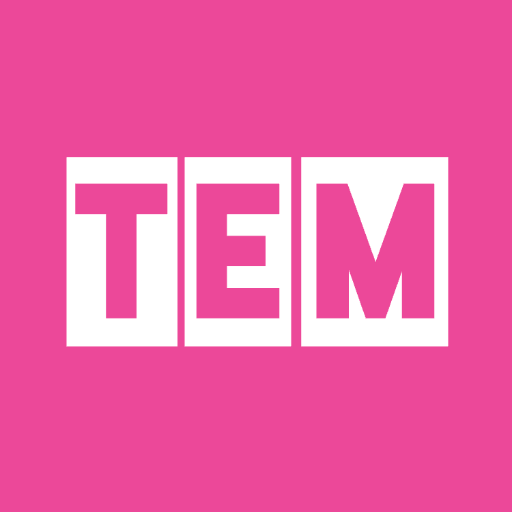
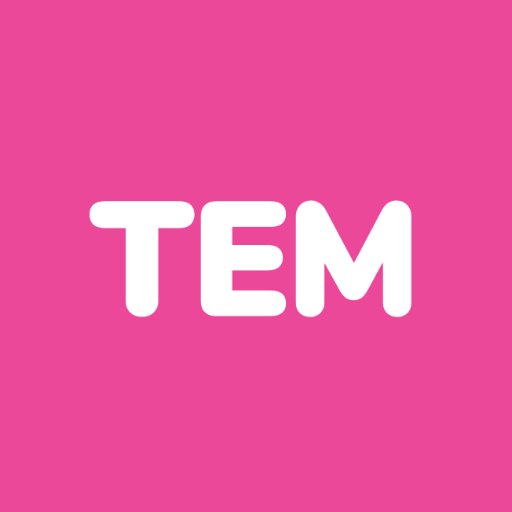
update pwa assests

Changed region(s): [[0.125, 0.2812, 0.875, 0.6875]]

diff --git a/app/layout.tsx b/app/layout.tsx
@@ -1,6 +1,8 @@
 import { type Metadata, type Viewport } from 'next';
+import Head from 'next/head';
 import { Nunito } from 'next/font/google';
 import { Toaster } from 'react-hot-toast';
+
 import Header from '@/components/Header';
 import { SendPixProvider } from '@/context/SendPixContext';
 
@@ -58,6 +60,178 @@ export default function RootLayout({
 }>) {
   return (
     <html lang="en" className="dark scrollbar-hide">
+      <Head>
+        <link
+          rel="apple-touch-startup-image"
+          media="screen and (device-width: 430px) and (device-height: 932px) and (-webkit-device-pixel-ratio: 3) and (orientation: landscape)"
+          href="splash_screens/iPhone_15_Pro_Max__iPhone_15_Plus__iPhone_14_Pro_Max_landscape.png"
+        />
+        <link
+          rel="apple-touch-startup-image"
+          media="screen and (device-width: 393px) and (device-height: 852px) and (-webkit-device-pixel-ratio: 3) and (orientation: landscape)"
+          href="splash_screens/iPhone_15_Pro__iPhone_15__iPhone_14_Pro_landscape.png"
+        />
+        <link
+          rel="apple-touch-startup-image"
+          media="screen and (device-width: 428px) and (device-height: 926px) and (-webkit-device-pixel-ratio: 3) and (orientation: landscape)"
+          href="splash_screens/iPhone_14_Plus__iPhone_13_Pro_Max__iPhone_12_Pro_Max_landscape.png"
+        />
+        <link
+          rel="apple-touch-startup-image"
+          media="screen and (device-width: 390px) and (device-height: 844px) and (-webkit-device-pixel-ratio: 3) and (orientation: landscape)"
+          href="splash_screens/iPhone_14__iPhone_13_Pro__iPhone_13__iPhone_12_Pro__iPhone_12_landscape.png"
+        />
+        <link
+          rel="apple-touch-startup-image"
+          media="screen and (device-width: 375px) and (device-height: 812px) and (-webkit-device-pixel-ratio: 3) and (orientation: landscape)"
+          href="splash_screens/iPhone_13_mini__iPhone_12_mini__iPhone_11_Pro__iPhone_XS__iPhone_X_landscape.png"
+        />
+        <link
+          rel="apple-touch-startup-image"
+          media="screen and (device-width: 414px) and (device-height: 896px) and (-webkit-device-pixel-ratio: 3) and (orientation: landscape)"
+          href="splash_screens/iPhone_11_Pro_Max__iPhone_XS_Max_landscape.png"
+        />
+        <link
+          rel="apple-touch-startup-image"
+          media="screen and (device-width: 414px) and (device-height: 896px) and (-webkit-device-pixel-ratio: 2) and (orientation: landscape)"
+          href="splash_screens/iPhone_11__iPhone_XR_landscape.png"
+        />
+        <link
+          rel="apple-touch-startup-image"
+          media="screen and (device-width: 414px) and (device-height: 736px) and (-webkit-device-pixel-ratio: 3) and (orientation: landscape)"
+          href="splash_screens/iPhone_8_Plus__iPhone_7_Plus__iPhone_6s_Plus__iPhone_6_Plus_landscape.png"
+        />
+        <link
+          rel="apple-touch-startup-image"
+          media="screen and (device-width: 375px) and (device-height: 667px) and (-webkit-device-pixel-ratio: 2) and (orientation: landscape)"
+          href="splash_screens/iPhone_8__iPhone_7__iPhone_6s__iPhone_6__4.7__iPhone_SE_landscape.png"
+        />
+        <link
+          rel="apple-touch-startup-image"
+          media="screen and (device-width: 320px) and (device-height: 568px) and (-webkit-device-pixel-ratio: 2) and (orientation: landscape)"
+          href="splash_screens/4__iPhone_SE__iPod_touch_5th_generation_and_later_landscape.png"
+        />
+        <link
+          rel="apple-touch-startup-image"
+          media="screen and (device-width: 1024px) and (device-height: 1366px) and (-webkit-device-pixel-ratio: 2) and (orientation: landscape)"
+          href="splash_screens/12.9__iPad_Pro_landscape.png"
+        />
+        <link
+          rel="apple-touch-startup-image"
+          media="screen and (device-width: 834px) and (device-height: 1194px) and (-webkit-device-pixel-ratio: 2) and (orientation: landscape)"
+          href="splash_screens/11__iPad_Pro__10.5__iPad_Pro_landscape.png"
+        />
+        <link
+          rel="apple-touch-startup-image"
+          media="screen and (device-width: 820px) and (device-height: 1180px) and (-webkit-device-pixel-ratio: 2) and (orientation: landscape)"
+          href="splash_screens/10.9__iPad_Air_landscape.png"
+        />
+        <link
+          rel="apple-touch-startup-image"
+          media="screen and (device-width: 834px) and (device-height: 1112px) and (-webkit-device-pixel-ratio: 2) and (orientation: landscape)"
+          href="splash_screens/10.5__iPad_Air_landscape.png"
+        />
+        <link
+          rel="apple-touch-startup-image"
+          media="screen and (device-width: 810px) and (device-height: 1080px) and (-webkit-device-pixel-ratio: 2) and (orientation: landscape)"
+          href="splash_screens/10.2__iPad_landscape.png"
+        />
+        <link
+          rel="apple-touch-startup-image"
+          media="screen and (device-width: 768px) and (device-height: 1024px) and (-webkit-device-pixel-ratio: 2) and (orientation: landscape)"
+          href="splash_screens/9.7__iPad_Pro__7.9__iPad_mini__9.7__iPad_Air__9.7__iPad_landscape.png"
+        />
+        <link
+          rel="apple-touch-startup-image"
+          media="screen and (device-width: 744px) and (device-height: 1133px) and (-webkit-device-pixel-ratio: 2) and (orientation: landscape)"
+          href="splash_screens/8.3__iPad_Mini_landscape.png"
+        />
+        <link
+          rel="apple-touch-startup-image"
+          media="screen and (device-width: 430px) and (device-height: 932px) and (-webkit-device-pixel-ratio: 3) and (orientation: portrait)"
+          href="splash_screens/iPhone_15_Pro_Max__iPhone_15_Plus__iPhone_14_Pro_Max_portrait.png"
+        />
+        <link
+          rel="apple-touch-startup-image"
+          media="screen and (device-width: 393px) and (device-height: 852px) and (-webkit-device-pixel-ratio: 3) and (orientation: portrait)"
+          href="splash_screens/iPhone_15_Pro__iPhone_15__iPhone_14_Pro_portrait.png"
+        />
+        <link
+          rel="apple-touch-startup-image"
+          media="screen and (device-width: 428px) and (device-height: 926px) and (-webkit-device-pixel-ratio: 3) and (orientation: portrait)"
+          href="splash_screens/iPhone_14_Plus__iPhone_13_Pro_Max__iPhone_12_Pro_Max_portrait.png"
+        />
+        <link
+          rel="apple-touch-startup-image"
+          media="screen and (device-width: 390px) and (device-height: 844px) and (-webkit-device-pixel-ratio: 3) and (orientation: portrait)"
+          href="splash_screens/iPhone_14__iPhone_13_Pro__iPhone_13__iPhone_12_Pro__iPhone_12_portrait.png"
+        />
+        <link
+          rel="apple-touch-startup-image"
+          media="screen and (device-width: 375px) and (device-height: 812px) and (-webkit-device-pixel-ratio: 3) and (orientation: portrait)"
+          href="splash_screens/iPhone_13_mini__iPhone_12_mini__iPhone_11_Pro__iPhone_XS__iPhone_X_portrait.png"
+        />
+        <link
+          rel="apple-touch-startup-image"
+          media="screen and (device-width: 414px) and (device-height: 896px) and (-webkit-device-pixel-ratio: 3) and (orientation: portrait)"
+          href="splash_screens/iPhone_11_Pro_Max__iPhone_XS_Max_portrait.png"
+        />
+        <link
+          rel="apple-touch-startup-image"
+          media="screen and (device-width: 414px) and (device-height: 896px) and (-webkit-device-pixel-ratio: 2) and (orientation: portrait)"
+          href="splash_screens/iPhone_11__iPhone_XR_portrait.png"
+        />
+        <link
+          rel="apple-touch-startup-image"
+          media="screen and (device-width: 414px) and (device-height: 736px) and (-webkit-device-pixel-ratio: 3) and (orientation: portrait)"
+          href="splash_screens/iPhone_8_Plus__iPhone_7_Plus__iPhone_6s_Plus__iPhone_6_Plus_portrait.png"
+        />
+        <link
+          rel="apple-touch-startup-image"
+          media="screen and (device-width: 375px) and (device-height: 667px) and (-webkit-device-pixel-ratio: 2) and (orientation: portrait)"
+          href="splash_screens/iPhone_8__iPhone_7__iPhone_6s__iPhone_6__4.7__iPhone_SE_portrait.png"
+        />
+        <link
+          rel="apple-touch-startup-image"
+          media="screen and (device-width: 320px) and (device-height: 568px) and (-webkit-device-pixel-ratio: 2) and (orientation: portrait)"
+          href="splash_screens/4__iPhone_SE__iPod_touch_5th_generation_and_later_portrait.png"
+        />
+        <link
+          rel="apple-touch-startup-image"
+          media="screen and (device-width: 1024px) and (device-height: 1366px) and (-webkit-device-pixel-ratio: 2) and (orientation: portrait)"
+          href="splash_screens/12.9__iPad_Pro_portrait.png"
+        />
+        <link
+          rel="apple-touch-startup-image"
+          media="screen and (device-width: 834px) and (device-height: 1194px) and (-webkit-device-pixel-ratio: 2) and (orientation: portrait)"
+          href="splash_screens/11__iPad_Pro__10.5__iPad_Pro_portrait.png"
+        />
+        <link
+          rel="apple-touch-startup-image"
+          media="screen and (device-width: 820px) and (device-height: 1180px) and (-webkit-device-pixel-ratio: 2) and (orientation: portrait)"
+          href="splash_screens/10.9__iPad_Air_portrait.png"
+        />
+        <link
+          rel="apple-touch-startup-image"
+          media="screen and (device-width: 834px) and (device-height: 1112px) and (-webkit-device-pixel-ratio: 2) and (orientation: portrait)"
+          href="splash_screens/10.5__iPad_Air_portrait.png"
+        />
+        <link
+          rel="apple-touch-startup-image"
+          media="screen and (device-width: 810px) and (device-height: 1080px) and (-webkit-device-pixel-ratio: 2) and (orientation: portrait)"
+          href="splash_screens/10.2__iPad_portrait.png"
+        />
+        <link
+          rel="apple-touch-startup-image"
+          media="screen and (device-width: 768px) and (device-height: 1024px) and (-webkit-device-pixel-ratio: 2) and (orientation: portrait)"
+          href="splash_screens/9.7__iPad_Pro__7.9__iPad_mini__9.7__iPad_Air__9.7__iPad_portrait.png"
+        />
+        <link
+          rel="apple-touch-startup-image"
+          media="screen and (device-width: 744px) and (device-height: 1133px) and (-webkit-device-pixel-ratio: 2) and (orientation: portrait)"
+          href="splash_screens/8.3__iPad_Mini_portrait.png"
+        />
+      </Head>
       <body className={`${nunito.className} scrollbar-hide`}>
         <section
           id="layout-app"
